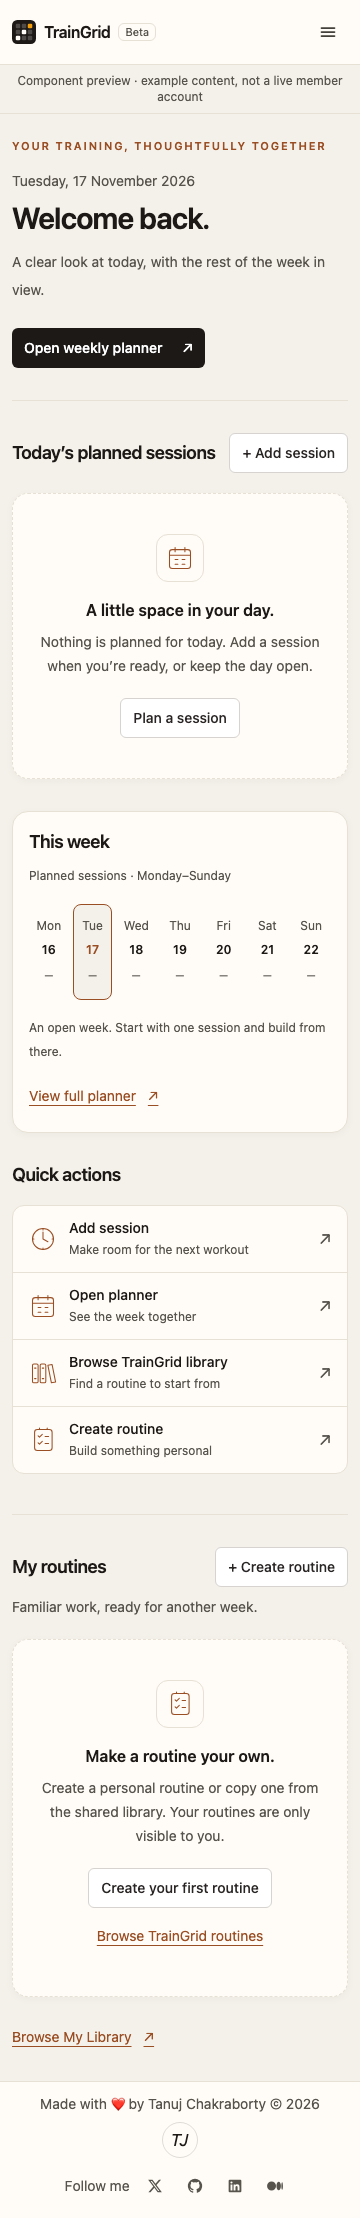
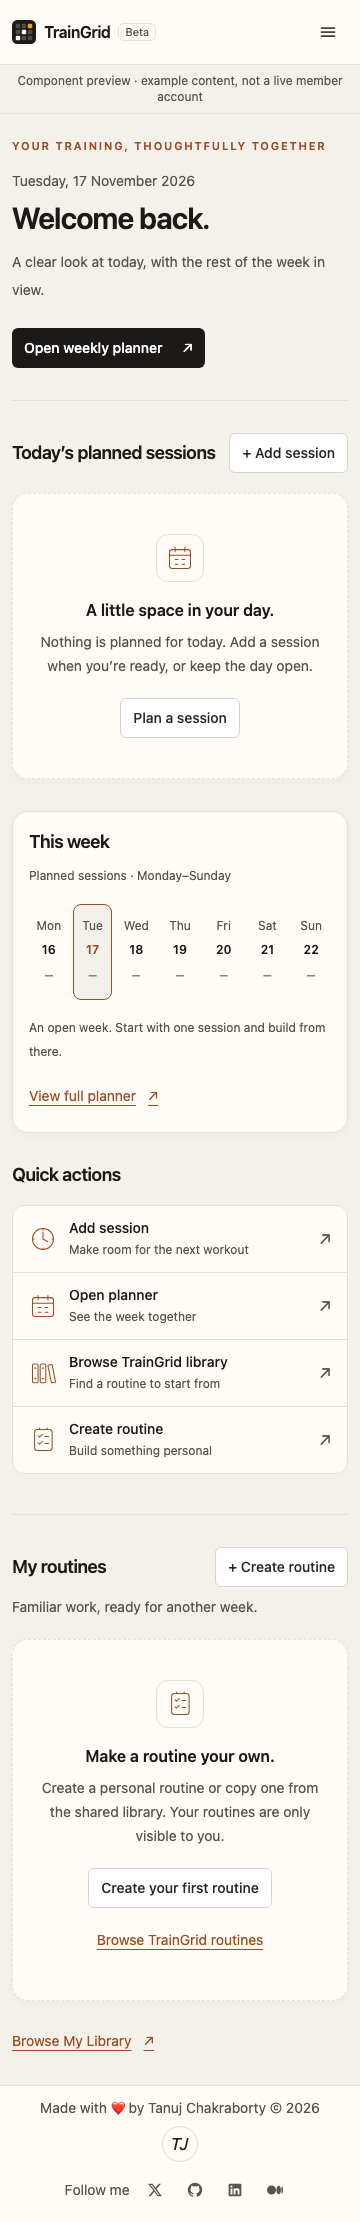
fix(ui): give empty routine actions comfortable spacing and themed captures

diff --git a/tests/ui/member-experience.spec.ts b/tests/ui/member-experience.spec.ts
@@ -123,6 +123,7 @@ test("empty day, empty week and missing routines remain distinct", async ({
   await expect(
     page.getByRole("heading", { name: "Make a routine your own." }),
   ).toBeVisible();
+  await page.emulateMedia({ reducedMotion: "reduce" });
   await page.goto(`${preview}/dashboard-no-routines.html`);
   await expect(
     page.getByRole("link", { name: "Open session: Lower A", exact: true }),
@@ -206,18 +207,26 @@ test("dashboard links support keyboard focus with reduced motion", async ({
   ).toBe("0s");
 });
 
-test("empty routine actions align in a centered row and wrap cleanly on phones", async ({ page }) => {
+test("empty routine actions have comfortable spacing in both themes and wrap on phones", async ({ page }) => {
+  await page.emulateMedia({ reducedMotion: "reduce" });
   await page.goto(`${preview}/dashboard-no-routines.html`);
   const create = page.getByRole("link", { name: "Create your first routine", exact: true });
   const browse = page.getByRole("link", { name: "Browse TrainGrid routines", exact: true });
-  for (const width of [320, 1440]) {
-    await page.setViewportSize({ width, height: 900 });
-    const first = (await create.boundingBox())!;
-    const second = (await browse.boundingBox())!;
-    if (width === 1440) expect(Math.abs(first.y + first.height / 2 - second.y - second.height / 2)).toBeLessThanOrEqual(1);
-    else expect(second.y).toBeGreaterThanOrEqual(first.y + first.height);
-    await mkdir("docs/images/epic-3/enhancements", { recursive: true });
-    await page.screenshot({ path: `docs/images/epic-3/enhancements/empty-routines-${width}.png`, fullPage: true });
-    expect(await page.evaluate(() => document.documentElement.scrollWidth <= innerWidth)).toBe(true);
+  for (const theme of ["light", "dark"] as const) {
+    await page.evaluate((dark) => document.documentElement.classList.toggle("dark", dark), theme === "dark");
+    for (const width of [320, 1440]) {
+      await page.setViewportSize({ width, height: 900 });
+      const first = (await create.boundingBox())!;
+      const second = (await browse.boundingBox())!;
+      if (width === 1440) {
+        expect(Math.abs(first.y + first.height / 2 - second.y - second.height / 2)).toBeLessThanOrEqual(1);
+        expect(second.x - first.x - first.width).toBeGreaterThanOrEqual(24);
+      } else {
+        expect(second.y - first.y - first.height).toBeGreaterThanOrEqual(12);
+      }
+      await mkdir("docs/images/epic-3/enhancements", { recursive: true });
+      await page.locator(".ui-panel").filter({ hasText: "Make a routine your own." }).screenshot({ path: `docs/images/epic-3/enhancements/empty-routines-${width}-${theme}.png`, animations: "disabled" });
+      expect(await page.evaluate(() => document.documentElement.scrollWidth <= innerWidth)).toBe(true);
+    }
   }
 });

diff --git a/components/dashboard/MemberDashboard.tsx b/components/dashboard/MemberDashboard.tsx
@@ -227,14 +227,14 @@ export function MemberDashboard({ state }: { state: DashboardState }) {
               title="Make a routine your own."
               icon={<PlanningIcon name="routine" />}
               action={
-                <>
+                <div className="flex flex-wrap items-center justify-center gap-x-6 gap-y-3">
                   <Link href={data.createRoutineHref} className={btnSecondary}>
                     Create your first routine
                   </Link>
                   <Link href={data.sharedLibraryHref} className={`${textLink} inline-flex min-h-10 items-center text-sm`}>
                     Browse TrainGrid routines
                   </Link>
-                </>
+                </div>
               }
             >
               Create a personal routine or copy one from the shared library.

diff --git a/agents/EPIC-3-UI-VERIFICATION.md b/agents/EPIC-3-UI-VERIFICATION.md
@@ -68,4 +68,11 @@ The dashboard's empty-routine actions now share a centered cross-axis alignment,
 
 Verification: lint/typecheck/secret scan pass; 49 component browser tests pass (including desktop center alignment and phone wrapping); 32 affected app regressions pass plus the focused modal test in light/dark at 320/1440px. The latter verifies initial focus, Tab/Shift+Tab between actions, background focus exclusion, Escape/Cancel focus restoration, viewport fit, no native JavaScript prompt, and zero axe violations. Actual deletion, ownership protection and scheduled-copy preservation are covered by the updated existing regressions. Native dialogs allow browser-chrome focus; checks cover intra-dialog Tab order and background inertness.
 
-Review captures: [desktop modal](../docs/images/epic-3/enhancements/delete-routine-1440-light.png), [mobile modal](../docs/images/epic-3/enhancements/delete-routine-320-dark.png), [desktop alignment](../docs/images/epic-3/enhancements/empty-routines-1440.png), [mobile alignment](../docs/images/epic-3/enhancements/empty-routines-320.png). Modal captures use the live local app; alignment captures are labelled component examples.
+The empty-routine actions use a 24px horizontal gap and 12px vertical gap when wrapped. Regression checks verify these distances and alignment in both themes.
+
+| Fix | Desktop light | Desktop dark | Mobile light | Mobile dark |
+| --- | --- | --- | --- | --- |
+| Delete modal | [1440px](../docs/images/epic-3/enhancements/delete-routine-1440-light.png) | [1440px](../docs/images/epic-3/enhancements/delete-routine-1440-dark.png) | [320px](../docs/images/epic-3/enhancements/delete-routine-320-light.png) | [320px](../docs/images/epic-3/enhancements/delete-routine-320-dark.png) |
+| Routine actions | [1440px](../docs/images/epic-3/enhancements/empty-routines-1440-light.png) | [1440px](../docs/images/epic-3/enhancements/empty-routines-1440-dark.png) | [320px](../docs/images/epic-3/enhancements/empty-routines-320-light.png) | [320px](../docs/images/epic-3/enhancements/empty-routines-320-dark.png) |
+
+Modal captures use the live local app; action captures show the isolated component empty state.
